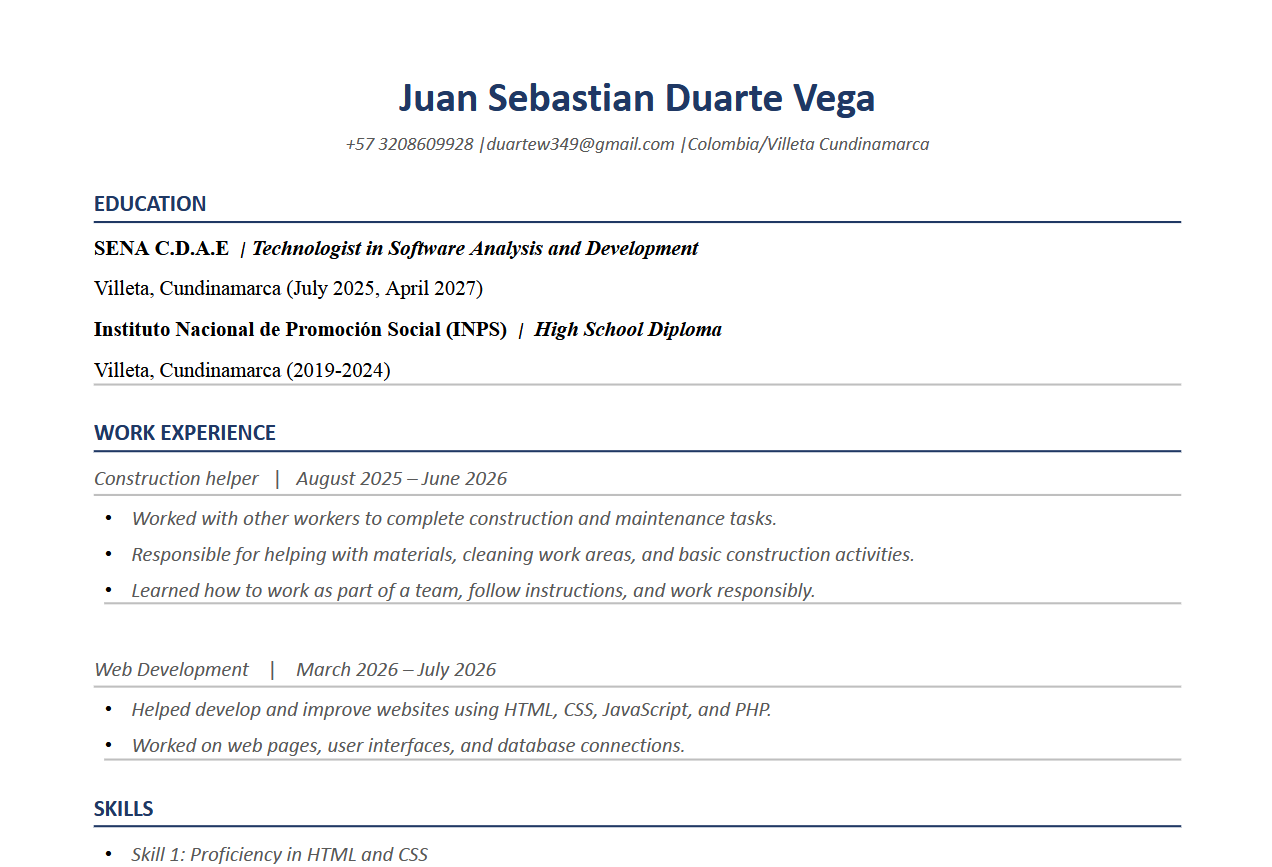
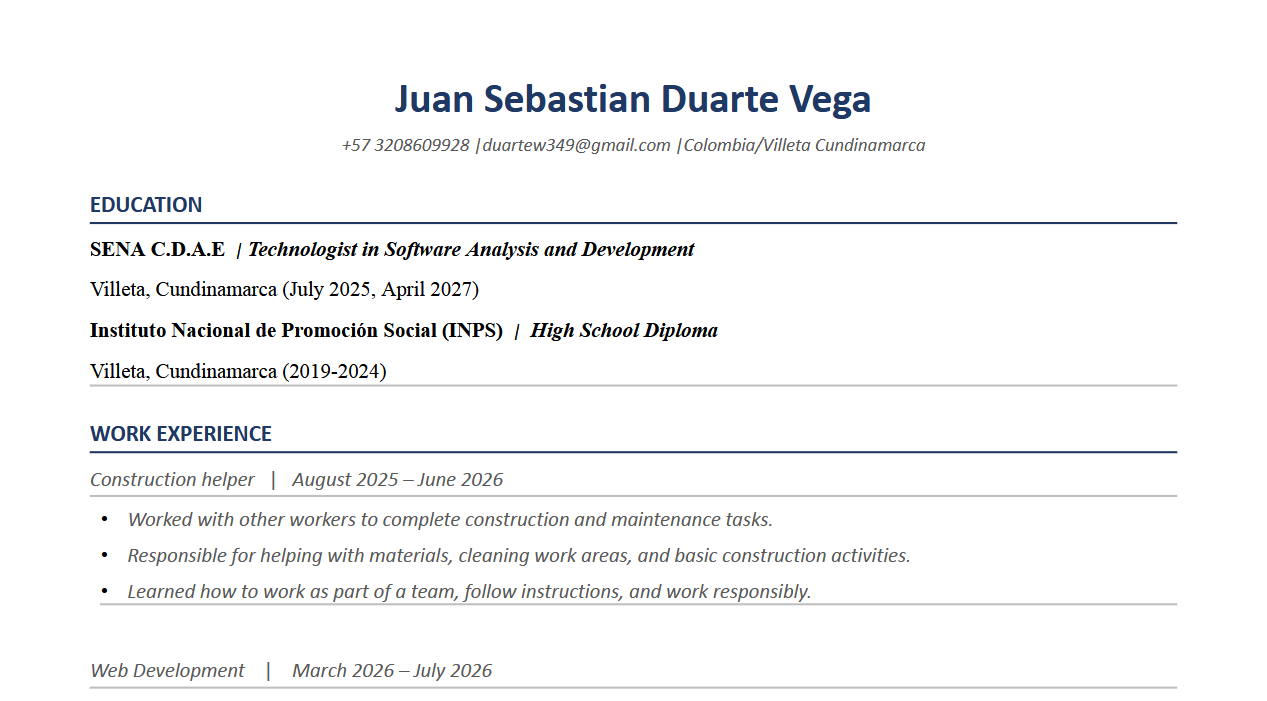
refactor(paginaingles/index.html, producto.html, layout/footer.php ): simplify record query logic and add img

Changed region(s): [[0.0616, 0.0899, 0.9234, 0.8987], [0.0616, 0.8987, 0.9234, 1.0]]

diff --git a/index.html b/index.html
@@ -54,6 +54,14 @@
             <ul class="navbar-nav ms-auto fw-semibold align-items-lg-center gap-2 gap-lg-1">
 
                 <li class="nav-item">
+                    <a class="nav-link px-3 py-2 rounded-pill nav-link-custom" href="#skills"
+                       data-es="Habilidades"
+                       data-en="Skills">
+                        Skills
+                    </a>
+                </li>
+
+                <li class="nav-item">
                     <a class="nav-link px-3 py-2 rounded-pill nav-link-custom" href="#trabajos"
                        data-es="Proyectos"
                        data-en="Projects">
@@ -66,14 +74,6 @@
                        data-es="Contacto"
                        data-en="Contact">
                         Contacto
-                    </a>
-                </li>
-
-                <li class="nav-item">
-                    <a class="nav-link px-3 py-2 rounded-pill nav-link-custom" href="#skills"
-                       data-es="Habilidades"
-                       data-en="Skills">
-                        Skills
                     </a>
                 </li>
 
@@ -202,7 +202,7 @@
             data-es="Habilidades" data-en="Skills">
         <i class="bi bi-code-slash me-1"></i> Habilidades
       </span> -->
-      <h2 class="fw-black" data-es="Mis Skills" data-en="My Skills">
+      <h2 class="fw-black" data-es="Mis habilidades" data-en="My Skills">
         Lo que sé hacer
       </h2>
     </div>
@@ -251,16 +251,7 @@
         <!-- JavaScript -->
       
 
-      <!-- Git -->
-      <div class="col-6 col-md-4 col-lg-3">
-        <div class="p-4 rounded-4 shadow-sm border text-center h-100 btn-hover-grow">
-          <i class="bi bi-git fs-1 mb-2 text-danger"></i>
-          <h6 class="fw-semibold mb-1">Git / GitHub</h6>
-          <div class="progress" style="height:6px;">
-            <div class="progress-bar bg-danger" style="width:80%"></div>
-          </div>
-        </div>
-      </div>
+    
 
       <!-- HTML5 / CSS3 -->
       <div class="col-6 col-md-4 col-lg-3">
@@ -346,13 +337,7 @@
         <div class="card card-project h-100 border-0 rounded-4 shadow-sm">
           <div class="project-icon p-4 text-center border-bottom bg-light-subtle rounded-top-4">
             <!-- Icono actualizado a video -->
-            <br>
-            <br>
-            <br>
-            <i class="bi bi-film display-4 text-primary"></i>
-            <br>
-            <br>
-            <br>
+              <img src="img/p3.jpg" alt="Proyecto 1" class="img-fluid">
           </div>
           <div class="card-body d-flex flex-column p-4">
             <div class="mb-3 d-flex gap-1 flex-wrap">
@@ -410,7 +395,7 @@
             <h5 class="card-title fw-bold" data-es="Menú" data-en="Menu">Menú</h5>
             <p class="card-text text-muted flex-grow-1">
               <strong data-es="Descripción:" data-en="Description:">Descripción:</strong><br>
-              <span data-es="El archivo PDF titulado 'Savors Of The House.pdf' es la presentación del menú para un restaurante gastronómico." data-en="The PDF titled 'Savors Of The House.pdf' is the menu presentation for a culinary restaurant.">
+              <span data-es="Savors Of The House es la presentación del menú para un restaurante gastronómico." data-en="Savors Of The House is the menu presentation for a culinary restaurant.">
                 El archivo PDF titulado 'Savors Of The House.pdf' es la presentación del menú para un restaurante gastronómico.
               </span>
             </p>
@@ -601,9 +586,6 @@
                         <i class="bi bi-whatsapp"></i>
                     </a>
                 </div>
-                <a href="mailto:duartew349@gmail.com" class="d-block text-secondary text-decoration-none small">
-                    <i class="bi bi-envelope-fill me-1"></i>duartew349@gmail.com
-                </a>
             </div>
 
 
@@ -612,25 +594,25 @@
                 <h6 class="fw-bold mb-3" data-es="Proyectos" data-en="Projects">Proyectos</h6>
                 <ul class="list-unstyled small">
                     <li class="mb-2">
-                        <a href="work/07april.php" class="text-secondary text-decoration-none" data-es="Tema Controversial" data-en="Controversial Topic">Nombre del proyecto 1</a>
+                        <a href="work/07april.php" class="text-secondary text-decoration-none" data-es="Tema Controversial" data-en="Controversial Topic">Tema Controversial</a>
                     </li>
                     <li class="mb-2">
-                        <a href="work/20april.php" class="text-secondary text-decoration-none" data-es="Ciudad y Famoso" data-en="City And Famous">Nombre del proyecto 2</a>
+                        <a href="work/20april.php" class="text-secondary text-decoration-none" data-es="Ciudad y Famoso" data-en="City And Famous">Ciudad y Famoso</a>
                     </li>
                     <li class="mb-2">
-                        <a href="work/02July.php" class="text-secondary text-decoration-none" data-es="Sincronización Labial" data-en="Lip Syncing">Nombre del proyecto 3</a>
+                        <a href="work/02July.php" class="text-secondary text-decoration-none" data-es="Sincronización Labial" data-en="Lip Syncing">Sincronización Labial</a>
                     </li>
                     <li class="mb-2">
-                        <a href="work/27july.php" class="text-secondary text-decoration-none" data-es="Video Juego" data-en="Video Game">Nombre del proyecto 4</a>
+                        <a href="work/27july.php" class="text-secondary text-decoration-none" data-es="Video Juego" data-en="Video Game">Video Juego</a>
                     </li>
                     <li class="mb-2">
-                        <a href="work/10august.php" class="text-secondary text-decoration-none" data-es="Menú" data-en="Menu">Nombre del proyecto 5</a>
+                        <a href="work/10august.php" class="text-secondary text-decoration-none" data-es="Menú" data-en="Menu">Menú</a>
                     </li>
                     <li class="mb-2">
-                        <a href="work/18august.php" class="text-secondary text-decoration-none" data-es="Hoja de Vida" data-en="Curriculum Vitae">Nombre del proyecto 6</a>
+                        <a href="work/18august.php" class="text-secondary text-decoration-none" data-es="Hoja de Vida" data-en="Curriculum Vitae">Hoja de Vida</a>
                     </li>
                     <li class="mb-2">
-                        <a href="../Paginaingles/index.html" class="text-secondary text-decoration-none" data-es="Página De Destino" data-en="Landing Page">Nombre del proyecto 7</a>
+                        <a href="../Paginaingles/index.html" class="text-secondary text-decoration-none" data-es="Página De Destino" data-en="Landing Page">Página De Destino</a>
                     </li>
                 </ul>
             </div>

diff --git a/paginaingles/index.html b/paginaingles/index.html
@@ -104,34 +104,16 @@ footer{background:#0f172a;color:#fff;padding:40px;text-align:center}footer p{mar
   <p data-es="© 2026 FeastSync. Todos los derechos reservados." data-en="© 2026 FeastSync. All Rights Reserved.">© 2026 FeastSync. Todos los derechos reservados.</p>
 </footer>
 
-<script>
-let idiomaActual = "es";
+<script src="https://cdn.jsdelivr.net/npm/bootstrap@5.3.2/dist/js/bootstrap.bundle.min.js"></script>
+<!-- para work -->
+<script src="../js/tema.js"></script>
+<!-- para index.php -->
+<script src="js/tema.js"></script>
 
-document.getElementById("btnIdioma").addEventListener("click", function () {
-    const elementos = document.querySelectorAll("[data-es][data-en]");
-    const inputBuscar = document.getElementById("inputBuscar");
-
-    if (idiomaActual === "es") {
-        elementos.forEach(elemento => {
-            elemento.textContent = elemento.getAttribute("data-en");
-        });
-        if (inputBuscar) {
-            inputBuscar.placeholder = inputBuscar.getAttribute("data-en-placeholder");
-        }
-        this.innerHTML = "🇨🇴 Español";
-        idiomaActual = "en";
-    } else {
-        elementos.forEach(elemento => {
-            elemento.textContent = elemento.getAttribute("data-es");
-        });
-        if (inputBuscar) {
-            inputBuscar.placeholder = inputBuscar.getAttribute("data-es-placeholder");
-        }
-        this.innerHTML = "🇺🇸 English";
-        idiomaActual = "es";
-    }
-});
-</script>
+<!-- para work -->
+<script src="../js/idioma.js"></script>
+<!-- para index.php -->
+<script src="js/idioma.js"></script>
 
 </body>
 </html>

diff --git a/paginaingles/producto.html b/paginaingles/producto.html
@@ -192,27 +192,16 @@ footer{background:#0f172a;color:#fff;padding:40px;text-align:center}footer p{mar
   <p data-es="© 2026 FeastSync. Todos los derechos reservados." data-en="© 2026 FeastSync. All Rights Reserved.">© 2026 FeastSync. Todos los derechos reservados.</p>
 </footer>
 
-<script>
-let idiomaActual = "es";
+<script src="https://cdn.jsdelivr.net/npm/bootstrap@5.3.2/dist/js/bootstrap.bundle.min.js"></script>
+<!-- para work -->
+<script src="../js/tema.js"></script>
+<!-- para index.php -->
+<script src="js/tema.js"></script>
 
-document.getElementById("btnIdioma").addEventListener("click", function () {
-    const elementos = document.querySelectorAll("[data-es][data-en]");
-
-    if (idiomaActual === "es") {
-        elementos.forEach(elemento => {
-            elemento.textContent = elemento.getAttribute("data-en");
-        });
-        this.innerHTML = "🇨🇴 Español";
-        idiomaActual = "en";
-    } else {
-        elementos.forEach(elemento => {
-            elemento.textContent = elemento.getAttribute("data-es");
-        });
-        this.innerHTML = "🇺🇸 English";
-        idiomaActual = "es";
-    }
-});
-</script>
+<!-- para work -->
+<script src="../js/idioma.js"></script>
+<!-- para index.php -->
+<script src="js/idioma.js"></script>
 
 </body>
 </html>

diff --git a/contacver.php b/contacver.php
@@ -31,9 +31,6 @@ include('contact.php');
                         <i class="bi bi-whatsapp"></i>
                     </a>
                 </div>
-                <a href="mailto:duartew349@gmail.com" class="d-block text-secondary text-decoration-none small">
-                    <i class="bi bi-envelope-fill me-1"></i>duartew349@gmail.com
-                </a>
             </div>
 
             <!-- Proyectos -->

diff --git a/projectver.php b/projectver.php
@@ -28,9 +28,6 @@ include('proyect.php');
                         <i class="bi bi-whatsapp"></i>
                     </a>
                 </div>
-                <a href="mailto:duartew349@gmail.com" class="d-block text-secondary text-decoration-none small">
-                    <i class="bi bi-envelope-fill me-1"></i>duartew349@gmail.com
-                </a>
             </div>
 
             <!-- Proyectos -->

diff --git a/Layout/footer.php b/Layout/footer.php
@@ -23,9 +23,6 @@
                         <i class="bi bi-whatsapp"></i>
                     </a>
                 </div>
-                <a href="mailto:duartew349@gmail.com" class="d-block text-secondary text-decoration-none small">
-                    <i class="bi bi-envelope-fill me-1"></i>duartew349@gmail.com
-                </a>
             </div>
 
             <!-- Proyectos -->
